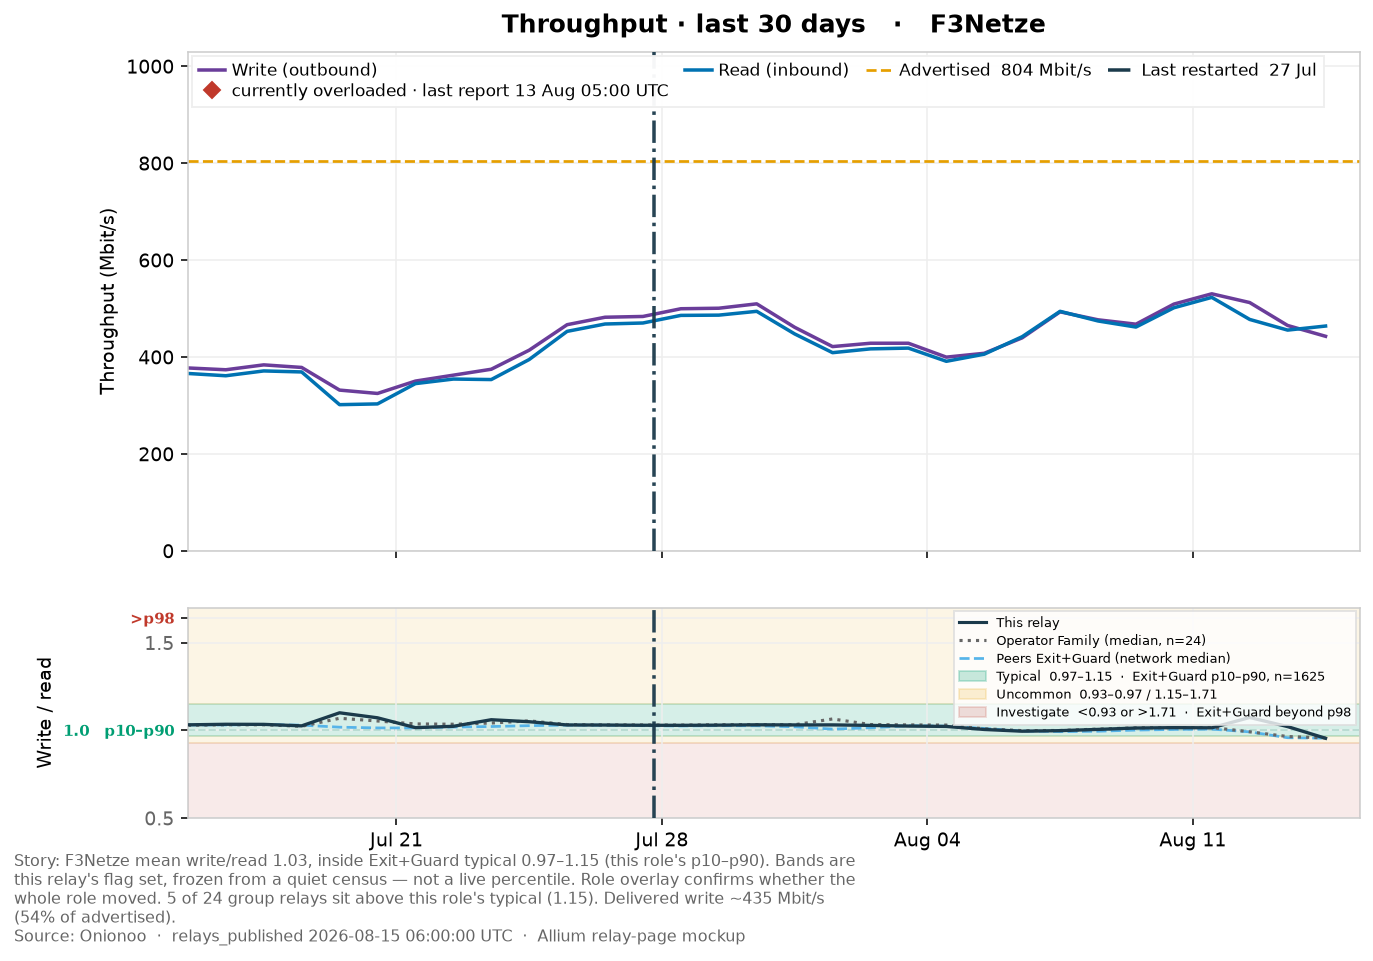
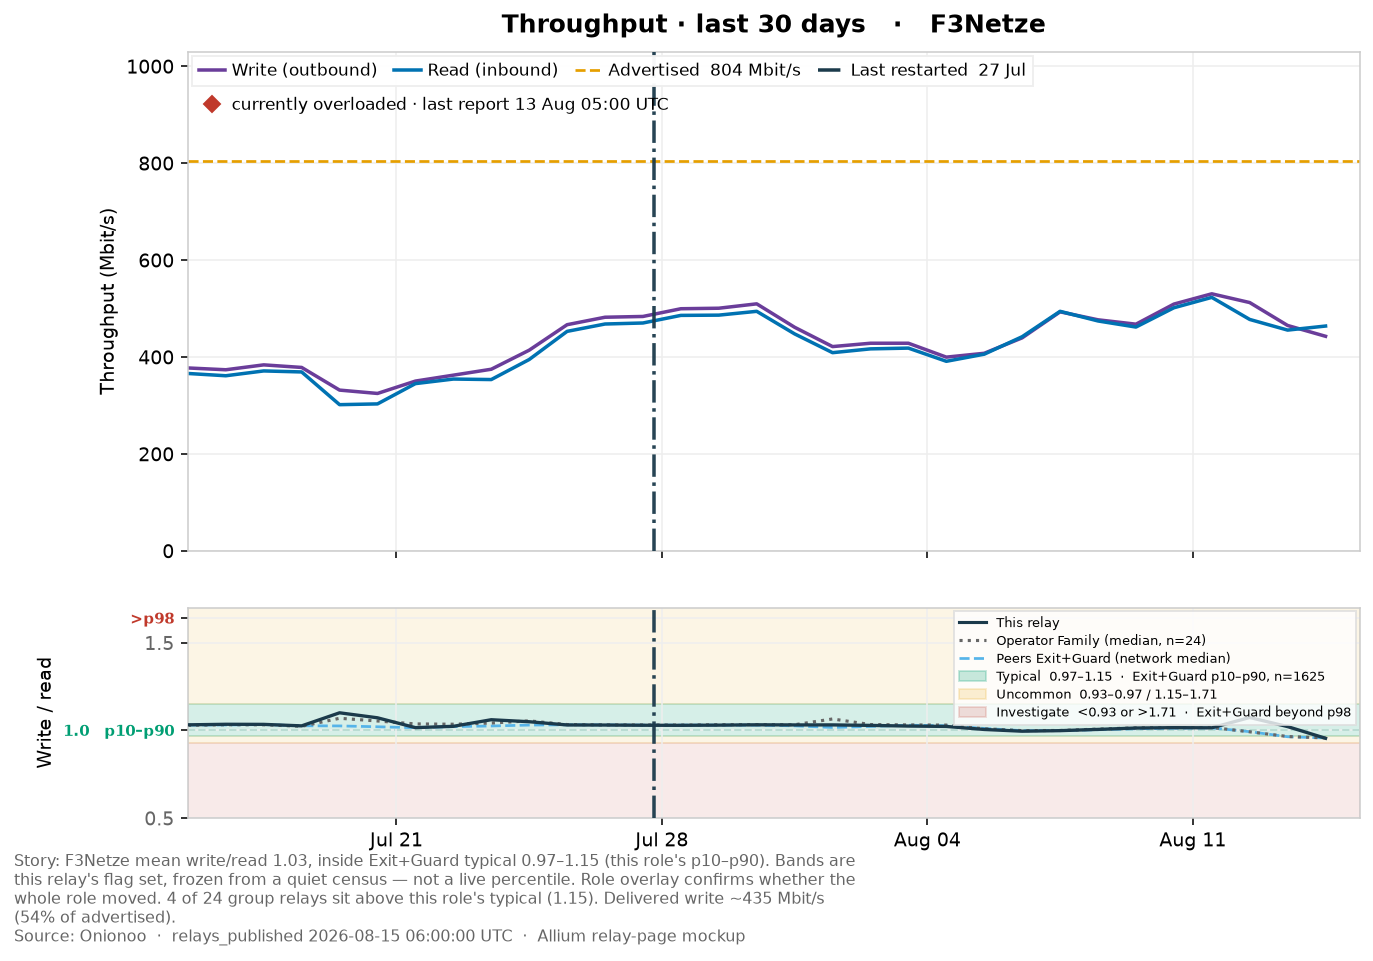
Keep Write/Read legend columns even when overload wraps
The long currently-overloaded label was in Write's column and
stretched the gap before Read. Overload is now a separate second
line so first-row items share the same column spacing.

Changed region(s): [[0.1529, 0.0624, 0.7953, 0.1249], [0.8259, 0.0624, 0.9483, 0.0937]]

diff --git a/docs/features/planned/charts/generate_relay_page_chart_variations.py b/docs/features/planned/charts/generate_relay_page_chart_variations.py
@@ -970,29 +970,6 @@ def throughput_legend_handles(advertised_mbit, events, overload_status=None,
     return handles
 
 
-def _blank_legend_handle():
-    return Line2D([], [], linestyle="None", marker="None", color="none", label=" ")
-
-
-def legend_handles_row_major(rows):
-    """Reorder so matplotlib's column-major legend matches these rows.
-
-    Matplotlib 3.x still fills legends column-first. Two separate legend
-    boxes left a large shelf between Write/Read and overload. One box
-    with labelspacing ≈ half the default is the 50% tighter wrap.
-    """
-    rows = [list(r) for r in rows if r]
-    if not rows:
-        return [], 1
-    ncol = max(len(r) for r in rows)
-    padded = [r + [_blank_legend_handle()] * (ncol - len(r)) for r in rows]
-    ordered = []
-    for col in range(ncol):
-        for row in padded:
-            ordered.append(row[col])
-    return ordered, ncol
-
-
 def place_legend_above_axes(ax, handles, fontsize=8.5, ncol=None,
                             wrap_last=False):
     """Legend in the empty band above advertised / data_max.
@@ -1000,10 +977,10 @@ def place_legend_above_axes(ax, handles, fontsize=8.5, ncol=None,
     ylim reserves that band (see throughput_ylim). Do not use loc=upper
     left on a tight ylim — that is what sat the legend on the series.
 
-    When overload is in the legend, wrap that last item onto a second
-    row of the same box. A single 5-item row is wider than the axes;
-    bbox=tight then stretches the figure to the right and leaves a
-    blank shelf under the legend.
+    Overload wraps onto a second line, but it must be a *separate*
+    legend. Putting it in the same ncol grid parks the long
+    “currently overloaded · last report …” label in Write’s column
+    and opens a huge gap before Read.
     """
     if not handles:
         return
@@ -1018,18 +995,32 @@ def place_legend_above_axes(ax, handles, fontsize=8.5, ncol=None,
         columnspacing=1.0,
         handlelength=1.6,
         handletextpad=0.4,
+        labelspacing=0.15,
     )
     if wrap_last and len(handles) > 1:
-        ordered, ncol = legend_handles_row_major([handles[:-1], handles[-1:]])
+        first = ax.legend(
+            handles=handles[:-1], loc="upper left",
+            ncol=len(handles) - 1, **style,
+        )
+        ax.add_artist(first)
+        fig = ax.figure
+        fig.canvas.draw()
+        bbox = first.get_window_extent(fig.canvas.get_renderer())
+        (x0, y0), _ = ax.transAxes.inverted().transform(
+            [[bbox.x0, bbox.y0], [bbox.x1, bbox.y1]]
+        )
+        second = dict(style)
+        second["frameon"] = False
+        second["borderaxespad"] = 0.0
         ax.legend(
-            handles=ordered, loc="upper left", ncol=ncol,
-            labelspacing=0.22, **style,
+            handles=handles[-1:], loc="upper left",
+            bbox_to_anchor=(x0, y0 - 0.006), bbox_transform=ax.transAxes,
+            **second,
         )
         return
     if ncol is None:
         ncol = min(len(handles), 4)
-    ax.legend(handles=handles, loc="upper left", ncol=ncol,
-              labelspacing=0.15, **style)
+    ax.legend(handles=handles, loc="upper left", ncol=ncol, **style)
 
 
 def apply_throughput_title(ax, title, overload_status, overload_mode):
@@ -1685,10 +1676,14 @@ def bandwidth_periods_equal(periods, advertised_mbit, events, overload_status,
         advertised_mbit, events, overload_status, overload_in_legend=True,
     )
     if overload_status and len(handles) > 1:
-        ordered, ncol = legend_handles_row_major([handles[:-1], handles[-1:]])
         fig.legend(
-            handles=ordered, loc="upper left", bbox_to_anchor=(0.08, 0.98),
-            ncol=ncol, fontsize=8.0, frameon=False, labelspacing=0.22,
+            handles=handles[:-1], loc="upper left", bbox_to_anchor=(0.08, 0.98),
+            ncol=len(handles) - 1, fontsize=8.0, frameon=False,
+            columnspacing=1.0,
+        )
+        fig.legend(
+            handles=handles[-1:], loc="upper left", bbox_to_anchor=(0.08, 0.945),
+            ncol=1, fontsize=8.0, frameon=False,
         )
     else:
         fig.legend(

diff --git a/docs/features/planned/charts/relay-page-charts.md b/docs/features/planned/charts/relay-page-charts.md
@@ -428,12 +428,13 @@ chart is a new `h5`, tables untouched.
 | 2 After scalars | After Capacity / Measurement, before Network Participation | Title-right cue | Rejected |
 | **3 History** | After Network Participation, before Values Explained | Diamond in the legend, **wrapped to a second line** | **Ship this** |
 
-When overload is in the legend, that last item wraps onto row 2 of the
-**same** legend box (Write / Read / Advertised / Last restarted, then
-the diamond). Two stacked boxes left a large gap; one box at half the
-default `labelspacing` is the tighter wrap. Do not keep a one-row
-legend that is wider than the axes — `bbox=tight` then stretches the
-figure to the right and leaves a blank shelf under the legend. Drop the
+When overload is in the legend, that last item wraps onto a second
+line under Write / Read / Advertised / Last restarted. It is a
+**separate** legend so the long “currently overloaded …” label does
+not sit in Write’s column and stretch the gap before Read. First-row
+items share the same `columnspacing`. Do not keep a one-row legend
+that is wider than the axes — `bbox=tight` then stretches the figure
+to the right and leaves a blank shelf under the legend. Drop the
 “Progressive enhancement: the tables stay if this SVG is missing”
 footnote under the chart; the tables are already on the page.
 
